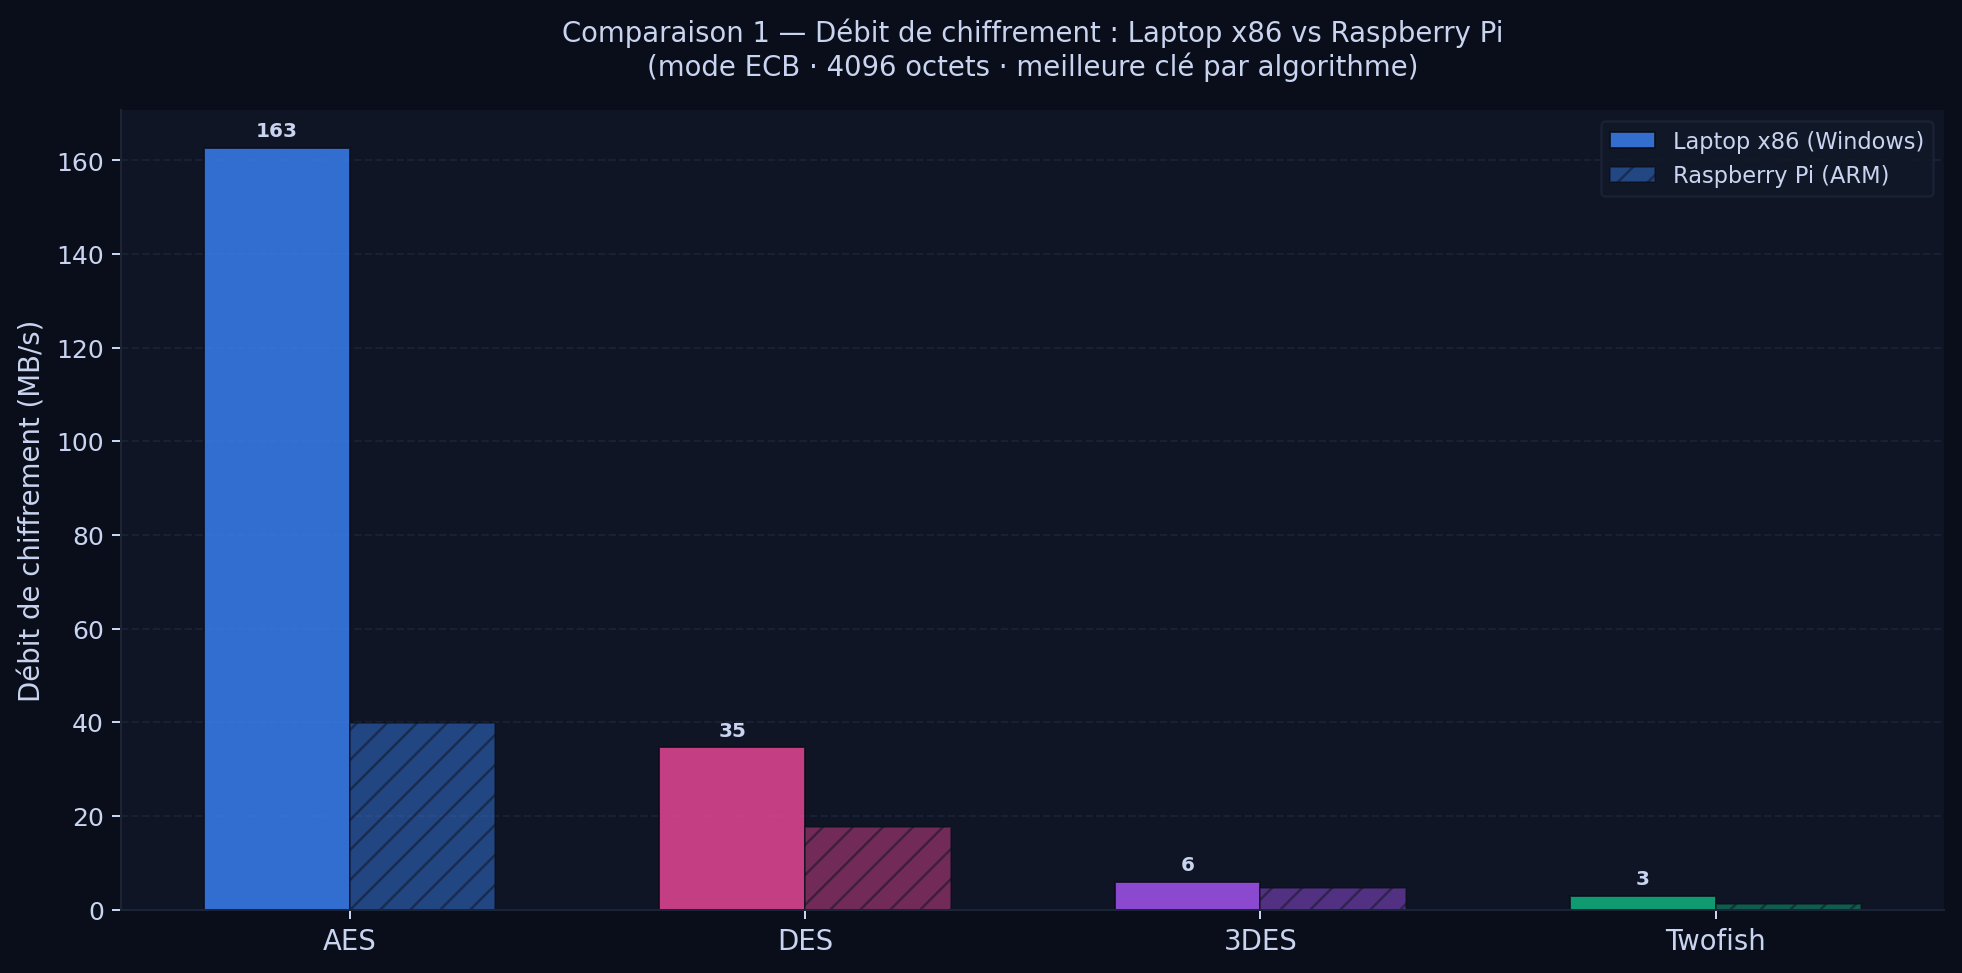
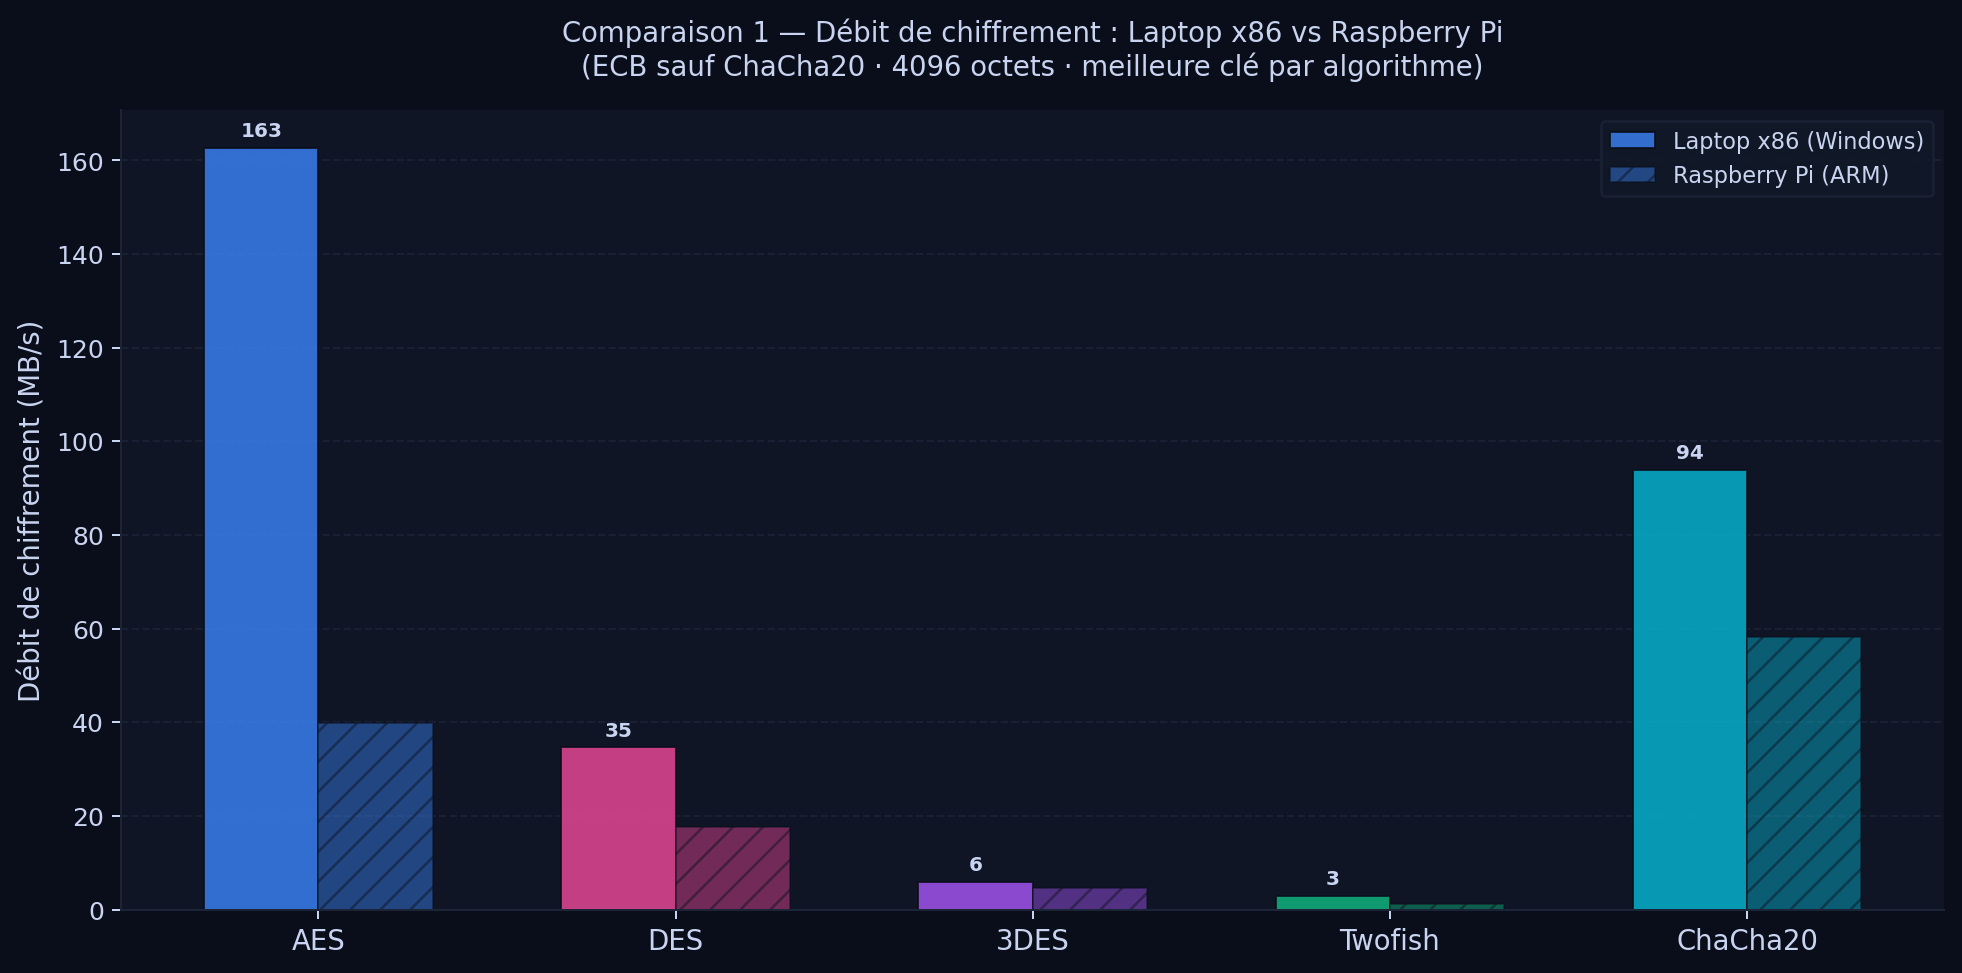
commit

diff --git a/crypto-experiments/scripts/compare_platforms.py b/crypto-experiments/scripts/compare_platforms.py
@@ -169,11 +169,8 @@ def savefig(name: str):
 # ===========================================================================
 def cmp1_throughput_all():
     target_size = 4096
-    target_mode = "ECB"
     best_key = {"AES": 256, "DES": 64, "3DES": 192, "Twofish": 256, "ChaCha20": 256}
-    algo_order = [a for a in best_key if any(
-        r["algorithm"] == a and r["mode"] == target_mode for r in x86_rows
-    )]
+    algo_order = list(best_key.keys())
 
     x = np.arange(len(algo_order))
     w = 0.32
@@ -182,9 +179,10 @@ def cmp1_throughput_all():
 
     x86_vals, pi_vals, colors = [], [], []
     for algo in algo_order:
-        kb  = best_key[algo]
-        r86 = _lookup(x86_rows, algo, target_mode, kb, target_size)
-        rpi = _lookup(pi_rows,  algo, target_mode, kb, target_size)
+        kb   = best_key[algo]
+        mode = BEST_MODE[algo]
+        r86 = _lookup(x86_rows, algo, mode, kb, target_size)
+        rpi = _lookup(pi_rows,  algo, mode, kb, target_size)
         x86_vals.append(r86["throughput_enc"] if r86 else 0)
         pi_vals.append( rpi["throughput_enc"] if rpi else 0)
         colors.append(ALGO_COLORS.get(algo, "#888"))
@@ -207,7 +205,7 @@ def cmp1_throughput_all():
     ax.set_ylabel("Débit de chiffrement (MB/s)", fontsize=11)
     ax.set_title(
         "Comparaison 1 — Débit de chiffrement : Laptop x86 vs Raspberry Pi\n"
-        f"(mode ECB · {target_size} octets · meilleure clé par algorithme)",
+        f"(ECB sauf ChaCha20 · {target_size} octets · meilleure clé par algorithme)",
         fontsize=11,
     )
     ax.legend(fontsize=9)
